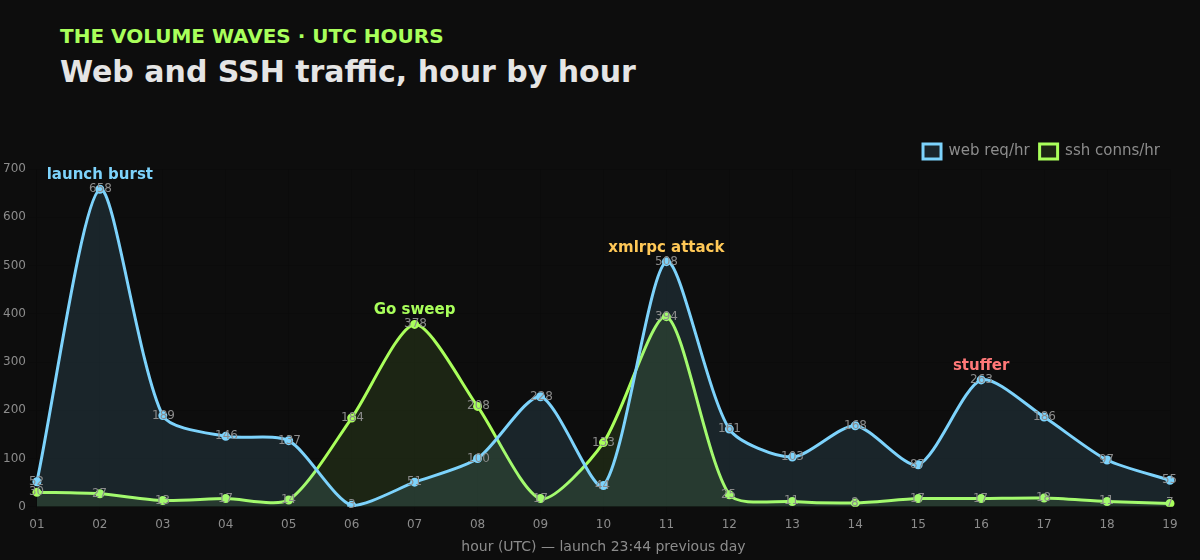
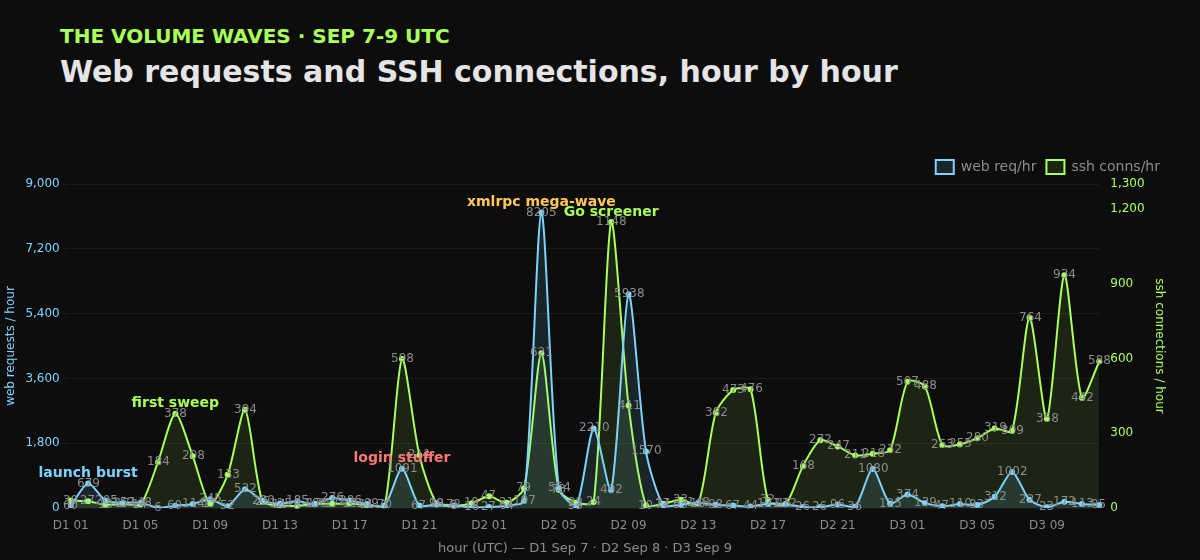
draft(decoy): regenerate 3-day waves chart (dual-axis, log-rotation bug fixed: 13,130 SSH conns), fix SSH cluster pie, note heist-cast idea

diff --git a/_drafts/2026-09-06-decoy-boutique.md b/_drafts/2026-09-06-decoy-boutique.md
@@ -57,29 +57,31 @@ The storefront is the bait; it is not the honeypot. The honeypot is the environm
 
 <!-- DRAFT NOTE (Gabriel, 2026-09-07): charts in this section are native mermaid pies (theme-rendered, no CDN — Chirpy renders ```mermaid blocks automatically). A full interactive Chart.js version of the same data was built and validated (sources: assets/img/posts/chart1..4 .png; the .html sources were moved out of the repo 2026-09-08 because their local file:// lib refs broke the CI HTML-Proofer — backup at ~/honeypot-evidence/chart-html-backup/, libs in ~/.hermes/scripts/honeypot-charts, regenerable). BEFORE publishing, compare mermaid vs Chart.js rendering on the live post and pick the final one; that choice also affects the LinkedIn card if we screenshot a ChartJS chart. Replace the Day-1 preview numbers with the full 30-day run at publish. -->
 
+<!-- DRAFT NOTE (Gabriel, 2026-09-09): IDEA — abrir el desglose con un "cast de atacantes" (perfil breve de los actores ya identificados, NO exhaustivo), al estilo de la presentacion de personajes de una pelicula de heist: cada uno con nombre-vivo + que hace + su firma. Material disponible en references/attacker-profiles.md (P1-P8): p.ej. "The Screener" (corre uname contra todo, 8,140 sesiones), "The Miner" (planta su key — sin cambios desde 2018), "The Tunnel Hunters" (proban usar la caja como salto hacia su relay), "The XML-RPC Flood" (ola tras ola desde VPS frescos), "The Login Stuffer" (gotea contra el login, se esconde tras Cloudflare), "The Backdoor Artist" (hex-ofuscado, verifica shell real, planta un sshd falso). El cast se presenta ANTES del desglose numerico para darle cara al ruido. -->
+
 ## The noise, in numbers
 
-Three days in, the commodity noise has a shape: 5,695 SSH connections and 28,986 web requests from 508 IPs. Mid-run preview numbers — the full 30-day run replaces them at publish.
+Three days in, the commodity noise has a shape: 13,130 SSH connections and 28,986 web requests from 508 IPs. Mid-run preview numbers — the full 30-day run replaces them at publish.
 
 The SSH noise was not a crowd — it was clusters with different goals, from mass host-triage to a miner planting its persistence key:
 
 ```mermaid
 pie showData
     title SSH sessions by attacker cluster — days 1-3
-    "xsec beacon family" : 2872
-    "screener — uname triage" : 2636
-    "scanners / other" : 134
-    "tunnel / proxy hunter" : 35
-    "mdrfckr miner — key plant" : 18
+    "screener — uname triage" : 8140
+    "xsec beacon family" : 3927
+    "scanners / other" : 800
+    "mdrfckr miner — key plant" : 134
+    "tunnel / proxy hunter" : 129
 ```
 
-*The largest cluster is a botnet that re-checks its victims with a beacon; the miner's key has been unchanged since 2018.*
+*The screener triages every host it finds; the miner's key has been unchanged since 2018.*
 
 The volume arrived in waves, not as a tide — launch burst, botnet sweeps, then a credential-stuffing run:
 
-![Web and SSH traffic, hour by hour (UTC) — first 19 hours after launch](/assets/img/posts/chart1-volume-timeline.png)
+![Web and SSH traffic, hour by hour (UTC) — first three days](/assets/img/posts/chart1-volume-timeline.png)
 
-*Static render — mermaid has no time-series charts, so the timeline stays as an image (Chart.js interactive alternative exists if we want it live).*
+*Static render of the first three days (double axis: web left, SSH right) — mermaid has no time-series charts, so the timeline stays as an image (Chart.js interactive alternative exists if we want it live).*
 
 Most of those web requests were not for the store at all. Break them down by target and the picture is lopsided in a way that makes the bet look very safe:
 
